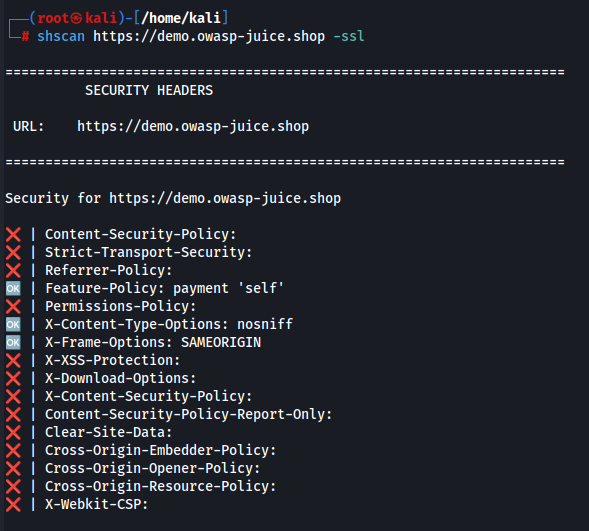
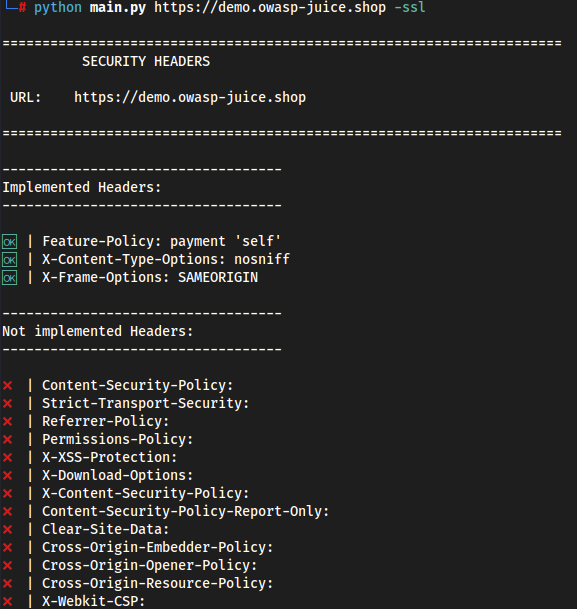
Version 0.1.9

Changed region(s): [[0.0, 0.2109, 0.9671, 1.0], [0.0, 0.0, 0.9671, 0.1808]]

diff --git a/shscan/main.py b/shscan/main.py
@@ -1,14 +1,13 @@
-import sys
-import requests
+import sys, requests
 from requests.exceptions import RequestException
 from shscan import main
 
-def get_security_headers(url, ssl=False, cookies=None):
+def get_security_headers(url, ssl=False):
     try:
         if ssl:
-            response = requests.get(url, allow_redirects=True, timeout=5, verify=True, cookies=cookies)
+            response = requests.get(url, allow_redirects=True, timeout=5, verify=True)
         else:
-            response = requests.get(url, allow_redirects=True, timeout=5, verify=False, cookies=cookies)
+            response = requests.get(url, allow_redirects=True, timeout=5, verify=False)
         security_headers = {
              'Content-Security-Policy': response.headers.get('Content-Security-Policy'),
              'Strict-Transport-Security': response.headers.get('Strict-Transport-Security'),
@@ -33,15 +32,44 @@ def get_security_headers(url, ssl=False, cookies=None):
         print(f"Error requesting {url}: {e}")
         return {}
 
-def display_menu(title, url):
-
+def display_menu(title, url, headers):
     title_length = len(title) + 2
     url_length = len(url) + 2
     border_length = max(title_length, url_length) + 4
     border = "==" * border_length
     print(f"\n{border}\n {title:^{border_length}} \n")
     print(f" URL: {url:^{border_length}} \n")
-    print(border + "\n")
+    print(border)
+
+# emojis
+    emoji_verde = '\033[32m\U0001F197\033[0m |'
+    emoji_vermelho = '\033[31m\u274C\033[0m |'
+
+    implemented_headers = []
+    not_implemented_headers = []
+
+    for header, value in headers.items():
+        if value:
+            implemented_headers.append(f"{emoji_verde} {header}: {value}")
+        else:
+            not_implemented_headers.append(f"{emoji_vermelho} {header}: ")
+
+# Print headers
+
+    if implemented_headers:
+        print("\n-----------------------------------")
+        print("Implemented Headers:")
+        print("-----------------------------------\n")
+        for header in implemented_headers:
+            print(header)
+
+    if not_implemented_headers:
+        print("\n-----------------------------------")
+        print("Not implemented Headers:")
+        print("-----------------------------------\n")
+        for header in not_implemented_headers:
+            print(header)
+
 
 def help_menu():
 
@@ -51,31 +79,22 @@ def help_menu():
     print("  No options: Test the URL without SSL and without cookies.")
 
 def main():
-    if len(sys.argv) < 2:
+    if len(sys.argv) < 2 or sys.argv[1] == "-h":
         help_menu()
-        sys.exit(1)
+        return
 
     url = sys.argv[1]
     ssl = False
 
-    i = 2
-    while i < len(sys.argv):
-        if sys.argv[i] == "-ssl":
-            ssl = True
-        else:
-            help_menu()
-            sys.exit(1)
-        i += 1
+    if len(sys.argv) == 3 and sys.argv[2] == "-ssl":
+        ssl = True
+    else:
+        print("Scanning", url)
+
 
     headers = get_security_headers(url, ssl)
-
     if headers:
-        display_menu("SECURITY HEADERS", url)
-        print(f"Security for {url}\n")
-        for header, value in headers.items():
-            emoji_verde = '\033[32m\U0001F197\033[0m |'
-            emoji_vermelho = '\033[31m\u274C\033[0m |'
-            print(f"{emoji_verde} {header}:" if value else f"{emoji_vermelho} {header}:", f"{value}" if value is not None else "")
-
+        display_menu("SECURITY HEADERS", url, headers)
+        
 if __name__ == "__main__":
     main()

diff --git a/setup.py b/setup.py
@@ -2,7 +2,7 @@ from setuptools import setup, find_packages
 
 setup(
     name='shscan',  
-    version='0.1.8',  
+    version='0.1.9',  
     packages=find_packages(),  
     install_requires=['requests'],  
     entry_points={
@@ -12,7 +12,7 @@ setup(
     },
     author='boyinf',   
     description='A package for checking the security headers of a URL.',  
-    long_description="The shscan tool was developed with the purpose of assisting in checking the security headers enabled on specific or internal websites. Created to simplify this process, the tool is notable for its simplicity and efficiency, representing the result in an intuitive way.",  
+     long_description="The shscan tool was developed with the purpose of assisting in checking the security headers enabled on specific or internal websites. Created to simplify this process, the tool is notable for its simplicity and efficiency, representing the result in an intuitive way.\n\nFor more information, visit [GitHub](https://github.com/boyinf/shscan).\n\n![Image](https://raw.githubusercontent.com/Boyinf/shscan/main/Owasp-juice.png)",
     url='https://github.com/boyinf/shscan',  
     license='MIT',  
     classifiers=[  
